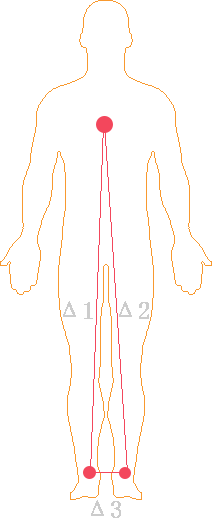
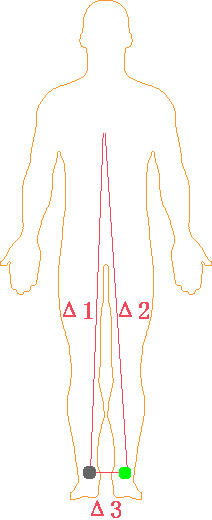
术中2.x - 修改

diff --git a/术中监控2.x/术中监控2.x/GridUI.cpp b/术中监控2.x/术中监控2.x/GridUI.cpp
@@ -426,6 +426,11 @@ void CGridUI::SetReaderTemp(DWORD j, DWORD  dwTemp, DWORD dwHighAlarm, DWORD dwL
 
 	if (dwTemp >= dwHighAlarm) {
 		m_readers[j]->m_lblTemp->SetTextColor(HIGH_TEMP_TEXT_COLOR);
+#if TRI_TAGS_FLAG
+		if (j < 3) {
+			m_human->SetTempColor(j, HIGH_TEMP_TEXT_COLOR);
+		}
+#endif
 
 		time_t now = time(0);
 		time_t diff_t = GetTimeDiff(t, now);
@@ -434,6 +439,11 @@ void CGridUI::SetReaderTemp(DWORD j, DWORD  dwTemp, DWORD dwHighAlarm, DWORD dwL
 	}
 	else if (dwTemp <= dwLowAlarm) {
 		m_readers[j]->m_lblTemp->SetTextColor(LOW_TEMP_TEXT_COLOR);
+#if TRI_TAGS_FLAG
+		if (j < 3) {
+			m_human->SetTempColor(j, LOW_TEMP_TEXT_COLOR);
+		}
+#endif
 
 		time_t now = time(0);
 		time_t diff_t = GetTimeDiff(t, now);
@@ -442,6 +452,11 @@ void CGridUI::SetReaderTemp(DWORD j, DWORD  dwTemp, DWORD dwHighAlarm, DWORD dwL
 	}
 	else {
 		m_readers[j]->m_lblTemp->SetTextColor(NORMAL_TEMP_TEXT_COLOR);
+#if TRI_TAGS_FLAG
+		if (j < 3) {
+			m_human->SetTempColor(j, NORMAL_TEMP_TEXT_COLOR); 
+		}
+#endif
 	}
 }
 

diff --git a/术中监控2.x/术中监控2.x/business.cpp b/术中监控2.x/术中监控2.x/business.cpp
@@ -512,8 +512,8 @@ void  CBusiness::GetGridTemperature(const CGetGridTempParam * pParam) {
 			GetGridTemperature(i, j, byArea, cfg.m_dwGridMode);
 		}			
 		else {
-			if (cfg.m_ReaderCfg[j].m_bSwitch)
-				GetGridTemperature(i, j, byArea, cfg.m_dwGridMode);
+			//if (cfg.m_ReaderCfg[j].m_bSwitch)
+			//	GetGridTemperature(i, j, byArea, cfg.m_dwGridMode);
 		}		
 #endif
 	}

diff --git a/术中监控2.x/术中监控2.x/SixGridsUI.cpp b/术中监控2.x/术中监控2.x/SixGridsUI.cpp
@@ -1509,3 +1509,13 @@ void  CHumanUI::SetTemp(int nIndex, CDuiString strText) {
 
 	m_lblTemp[nIndex]->SetText(strText);
 }
+
+void  CHumanUI::SetTempColor(int nIndex, DWORD  dwColor) {
+	if (!m_bInitiated)
+		return;
+
+	if (nIndex < 0 || nIndex > 2)
+		return;
+
+	m_lblTemp[nIndex]->SetTextColor(dwColor);
+}

diff --git a/术中监控2.x/术中监控2.x/main.cpp b/术中监控2.x/术中监控2.x/main.cpp
@@ -2667,7 +2667,7 @@ void CDuiFrameWnd::OnQueryOutHospitalNotify(const std::vector<OutHospitalItem*>&
                       
 
   
-                          
+                                           
 void PrintStatus(int nCnt, void * args[]) {
 	CBusiness::GetInstance()->PrintStatusAsyn();
 }

diff --git a/术中监控2.x/术中监控2.x/SixGridsUI.h b/术中监控2.x/术中监控2.x/SixGridsUI.h
@@ -240,6 +240,7 @@ public:
 	CHumanUI();
 	~CHumanUI();
 	void  SetTemp(int nIndex, CDuiString strText);
+	void  SetTempColor(int nIndex, DWORD  dwColor);
 
 private:
 	LPCTSTR GetClass() const;
